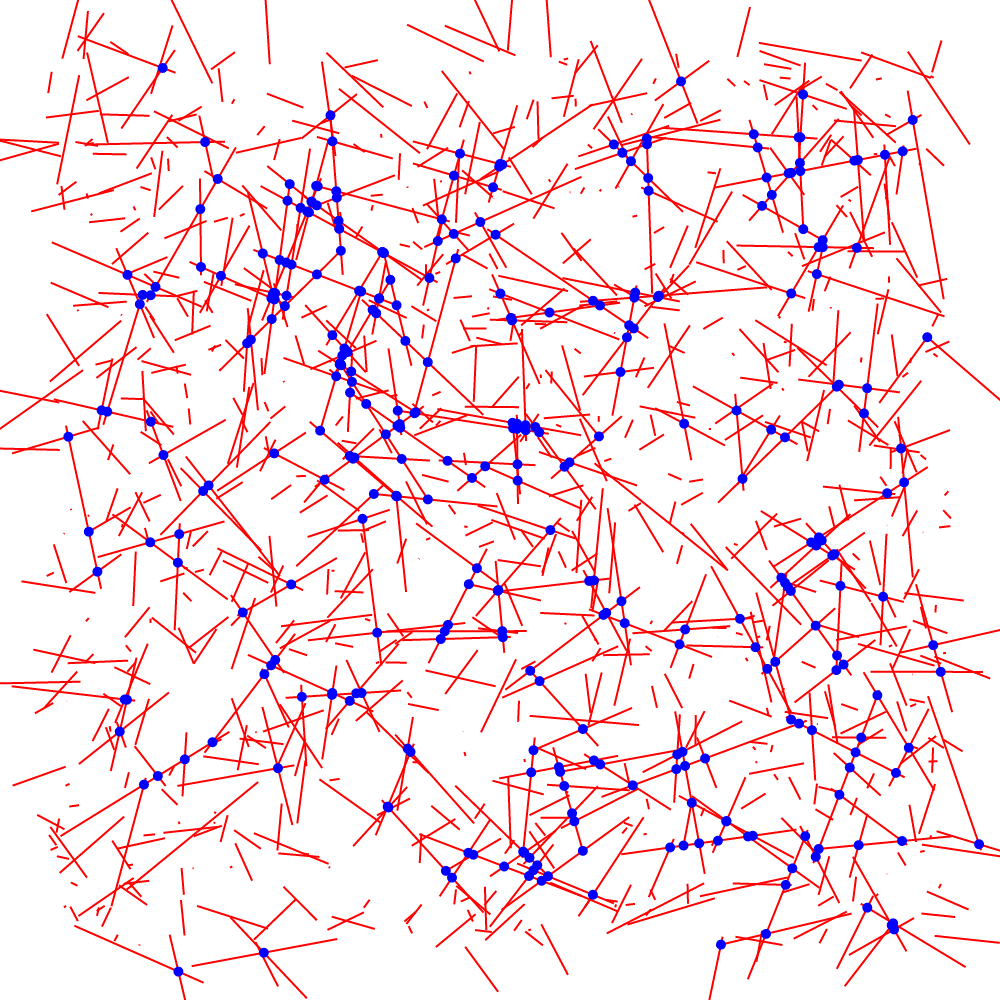
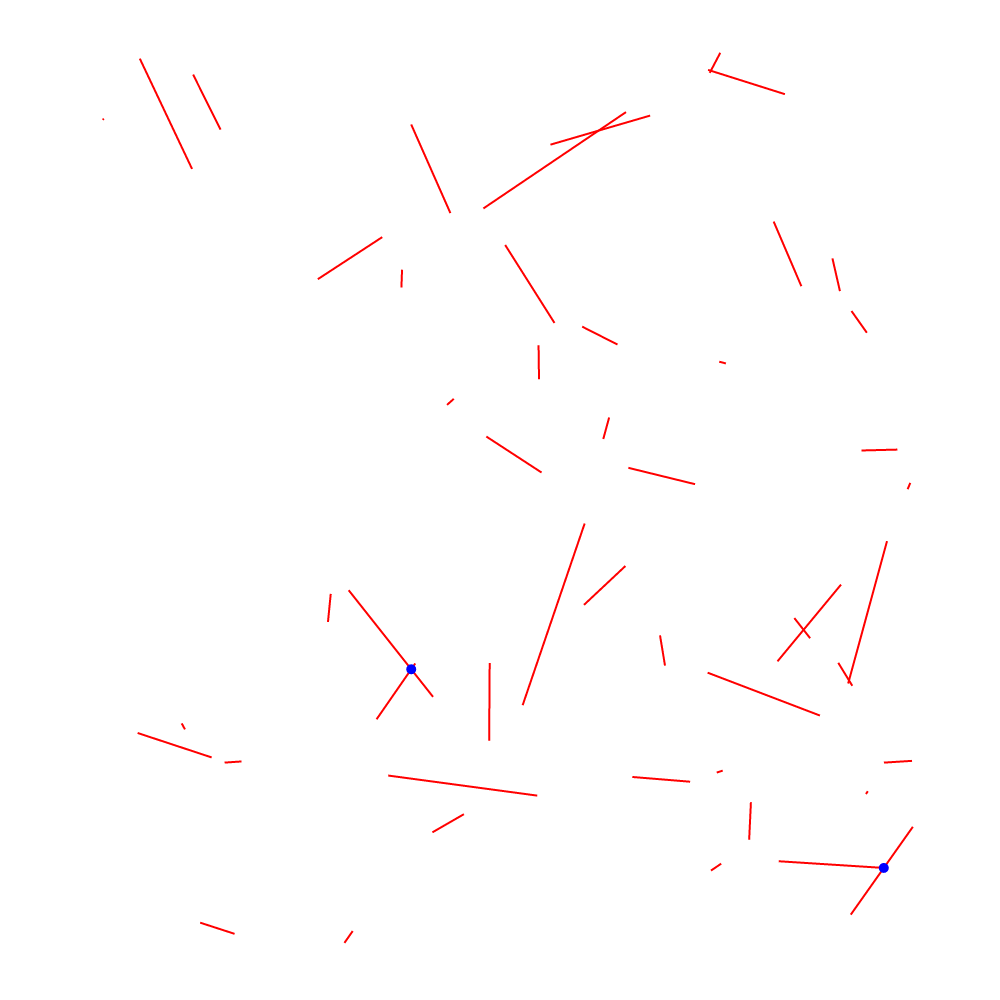
make generators non-stateful

diff --git a/src/generators.rs b/src/generators.rs
@@ -2,28 +2,8 @@ use std::sync::atomic::{AtomicUsize, Ordering};
 use crate::geometry;
 use rand::Rng;
 
-pub struct Generator<F> {
-    gen: F,
-    cur: i32,
-}
-
 pub trait LineGenerator {
-    fn line(&mut self, i: i32) -> geometry::Line;
-}
-
-impl<F> Generator<F> where F: LineGenerator + Default {
-    pub fn new() -> Generator<F> {
-        Generator {
-            gen: F::default(),
-            cur: 0
-        }
-    }
-
-    pub fn next(&mut self) -> geometry::Line {
-        let i = self.cur;
-        self.cur += 1;
-        self.gen.line(i)
-    }
+    fn line(rng: &mut impl Rng) -> geometry::Line;
 }
 
 fn random_unit_point(rng: &mut impl Rng) -> geometry::Point {
@@ -47,34 +27,29 @@ fn random_point_in_circle(center: geometry::Point, radius: f32, rng: &mut impl R
     }
 }
 
-static ID_COUNTER: AtomicUsize = AtomicUsize::new(1);
-fn line_id() -> usize {
-    ID_COUNTER.fetch_add(1, Ordering::Relaxed)
-}
+pub struct RandomUnitSquare;
+pub struct ShortLines;
 
-#[derive(Default)]
-pub struct RandomUnitSquare {
-    rng: rand::rngs::ThreadRng,
+pub fn generate_lines<G>(n: usize, rng: &mut impl Rng) -> Vec<geometry::Line> where G : LineGenerator {
+    (0..n).into_iter().map(|_|
+        G::line(rng)
+    )
+    .collect()
 }
 
 impl LineGenerator for RandomUnitSquare {
-    fn line(&mut self, _: i32) -> geometry::Line {
+    fn line(rng: &mut impl Rng) -> geometry::Line {
         geometry::Line {
-            id: line_id(), a: random_unit_point(&mut self.rng), b: random_unit_point(&mut self.rng)
+            a: random_unit_point(rng), b: random_unit_point(rng)
         }
     }
 }
 
-#[derive(Default)]
-pub struct ShortLines {
-    rng: rand::rngs::ThreadRng,
-}
-
 impl LineGenerator for ShortLines {
-    fn line(&mut self, _: i32) -> geometry::Line {
-        let start = random_unit_point(&mut self.rng);
-        let length = self.rng.gen_range(0f32..0.25);
-        let end = random_point_in_circle(start, length, &mut self.rng);
-        geometry::Line { id: line_id(), a: start, b: end }
+    fn line(rng: &mut impl Rng) -> geometry::Line {
+        let start = random_unit_point(rng);
+        let length = rng.gen_range(0f32..0.25);
+        let end = random_point_in_circle(start, length, rng);
+        geometry::Line { a: start, b: end }
     }
 }

diff --git a/src/intersect.rs b/src/intersect.rs
@@ -165,7 +165,7 @@ pub struct SweepLineIntersector {
     lines: Vec<geometry::Line>,
     points: Vec<SweepLinePoint>,
     current_sweep_point: usize,
-    active_set: HashSet<geometry::Line>,
+    active_set: Vec<geometry::Line>,
     to_report: Vec<Intersection>,
 
     // Performance analytics
@@ -189,7 +189,7 @@ impl Intersector for SweepLineIntersector {
                     SweepLinePoint { line: *line, point: line.b, start: line.b.y > line.a.y }])
                 .collect::<Vec<_>>(),
             current_sweep_point: 0,
-            active_set: HashSet::new(),
+            active_set: Vec::new(),
             ..Default::default()
         };
         intersector.points.sort_by(|p, q| p.point.y.partial_cmp(&q.point.y).unwrap().reverse());
@@ -212,10 +212,10 @@ impl Intersector for SweepLineIntersector {
                         self.to_report.push(intersect);
                     }
                 }
-                self.active_set.insert(p.line);
+                self.active_set.push(p.line);
             } else {
                 // End event: remove from active set
-                self.active_set.remove(&p.line);
+                self.active_set.retain(|x| *x != p.line);
             }
 
             self.current_sweep_point += 1;

diff --git a/src/geometry.rs b/src/geometry.rs
@@ -1,32 +1,13 @@
 use std::hash::{Hash, Hasher};
 
-#[derive(Default, Debug, Clone, Copy)]
+#[derive(Default, Debug, Clone, Copy, PartialEq)]
 pub struct Point {
     pub x: f32,
     pub y: f32
 }
 
-#[derive(Default, Debug, Clone, Copy)]
+#[derive(Default, Debug, Clone, Copy, PartialEq)]
 pub struct Line {
-    pub id: usize, // unique ID for each line, used to hash
     pub a: Point,
     pub b: Point
-}
-
-impl PartialEq<Self> for Line {
-    fn eq(&self, other: &Self) -> bool {
-        return self.id == other.id;
-    }
-}
-
-impl Eq for Line {}
-
-impl Hash for Line {
-    fn hash<H: Hasher>(&self, state: &mut H) {
-        state.write_usize(self.id);
-    }
-
-    fn hash_slice<H: Hasher>(data: &[Self], state: &mut H) where Self: Sized {
-        data.iter().for_each( |line| line.hash(state));
-    }
 }

diff --git a/src/main.rs b/src/main.rs
@@ -6,9 +6,9 @@ use std::time;
 use tiny_skia::*;
 
 fn main() {
-    let mut g = generators::Generator::<generators::ShortLines>::new();
-    let n = 1000;
-    let lines: Vec<_> = (0..n).map(|_| g.next()).collect();
+    let mut rng = rand::thread_rng();
+    let n = 50;
+    let lines = generators::generate_lines::<generators::ShortLines>(n, &mut rng);
     let now = time::Instant::now();
     let intersections = intersect::report_all_intersections::<intersect::SweepLineIntersector>(&lines);
     let elapsed = now.elapsed();
